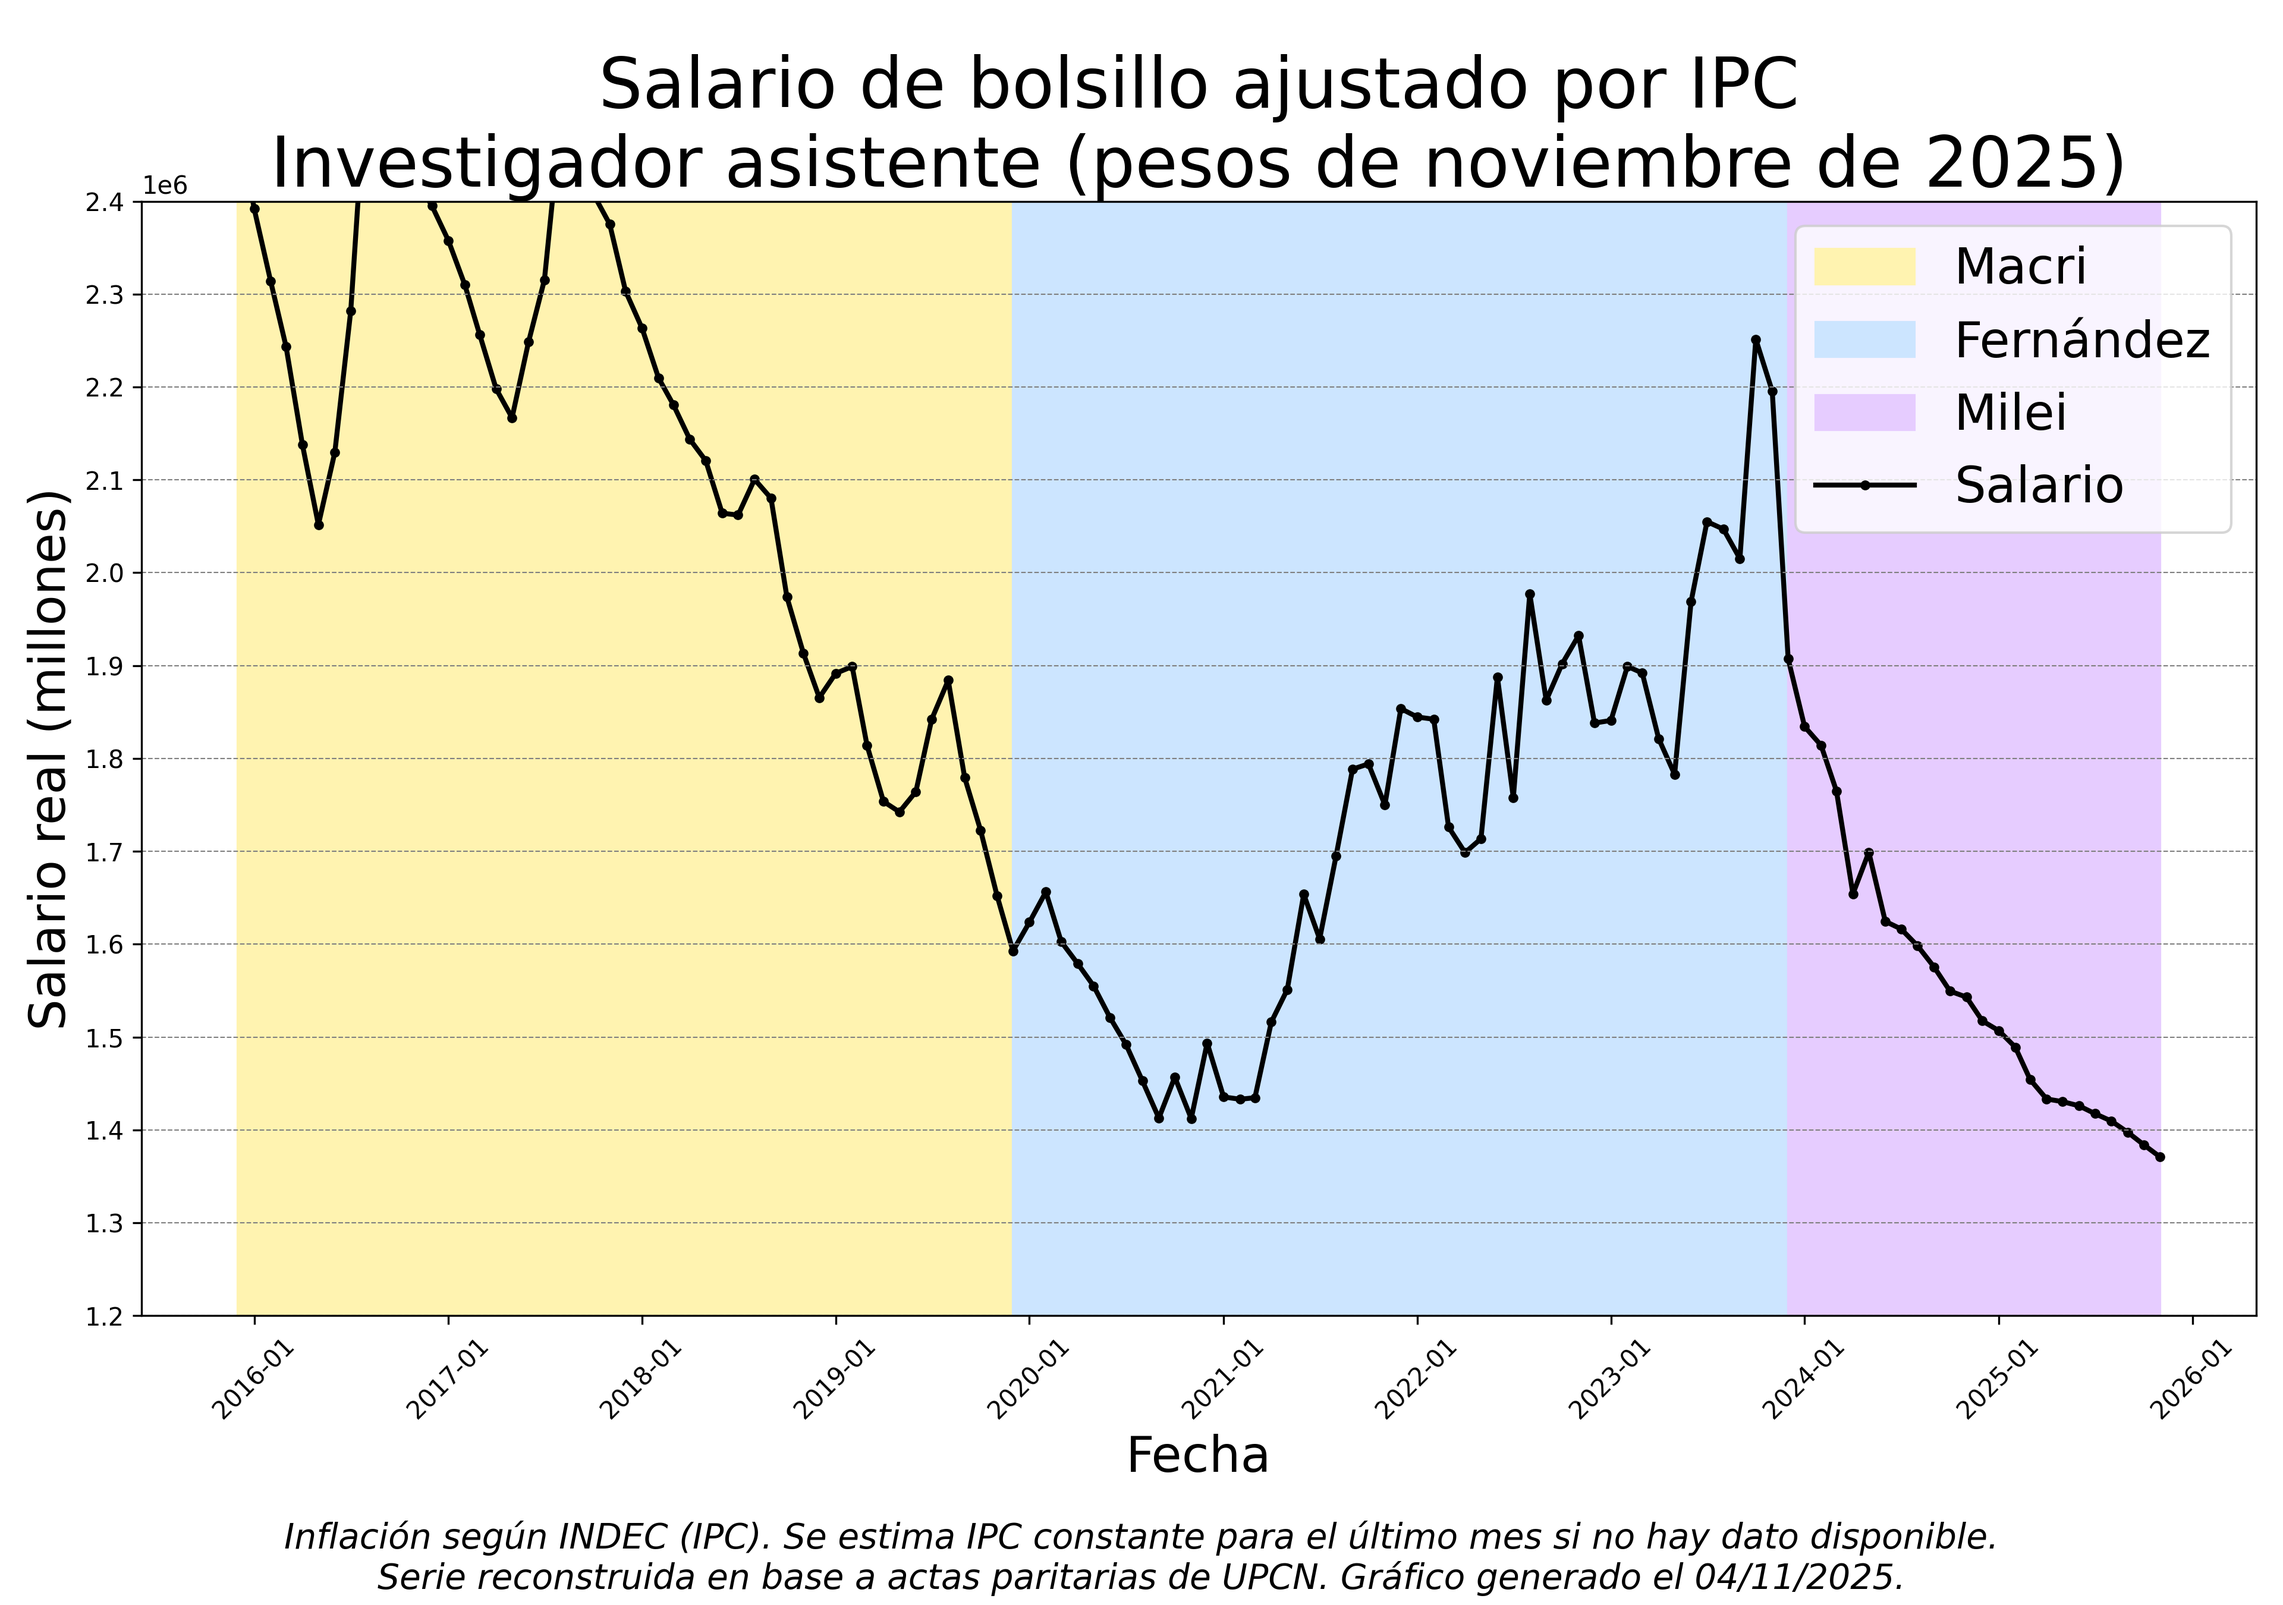
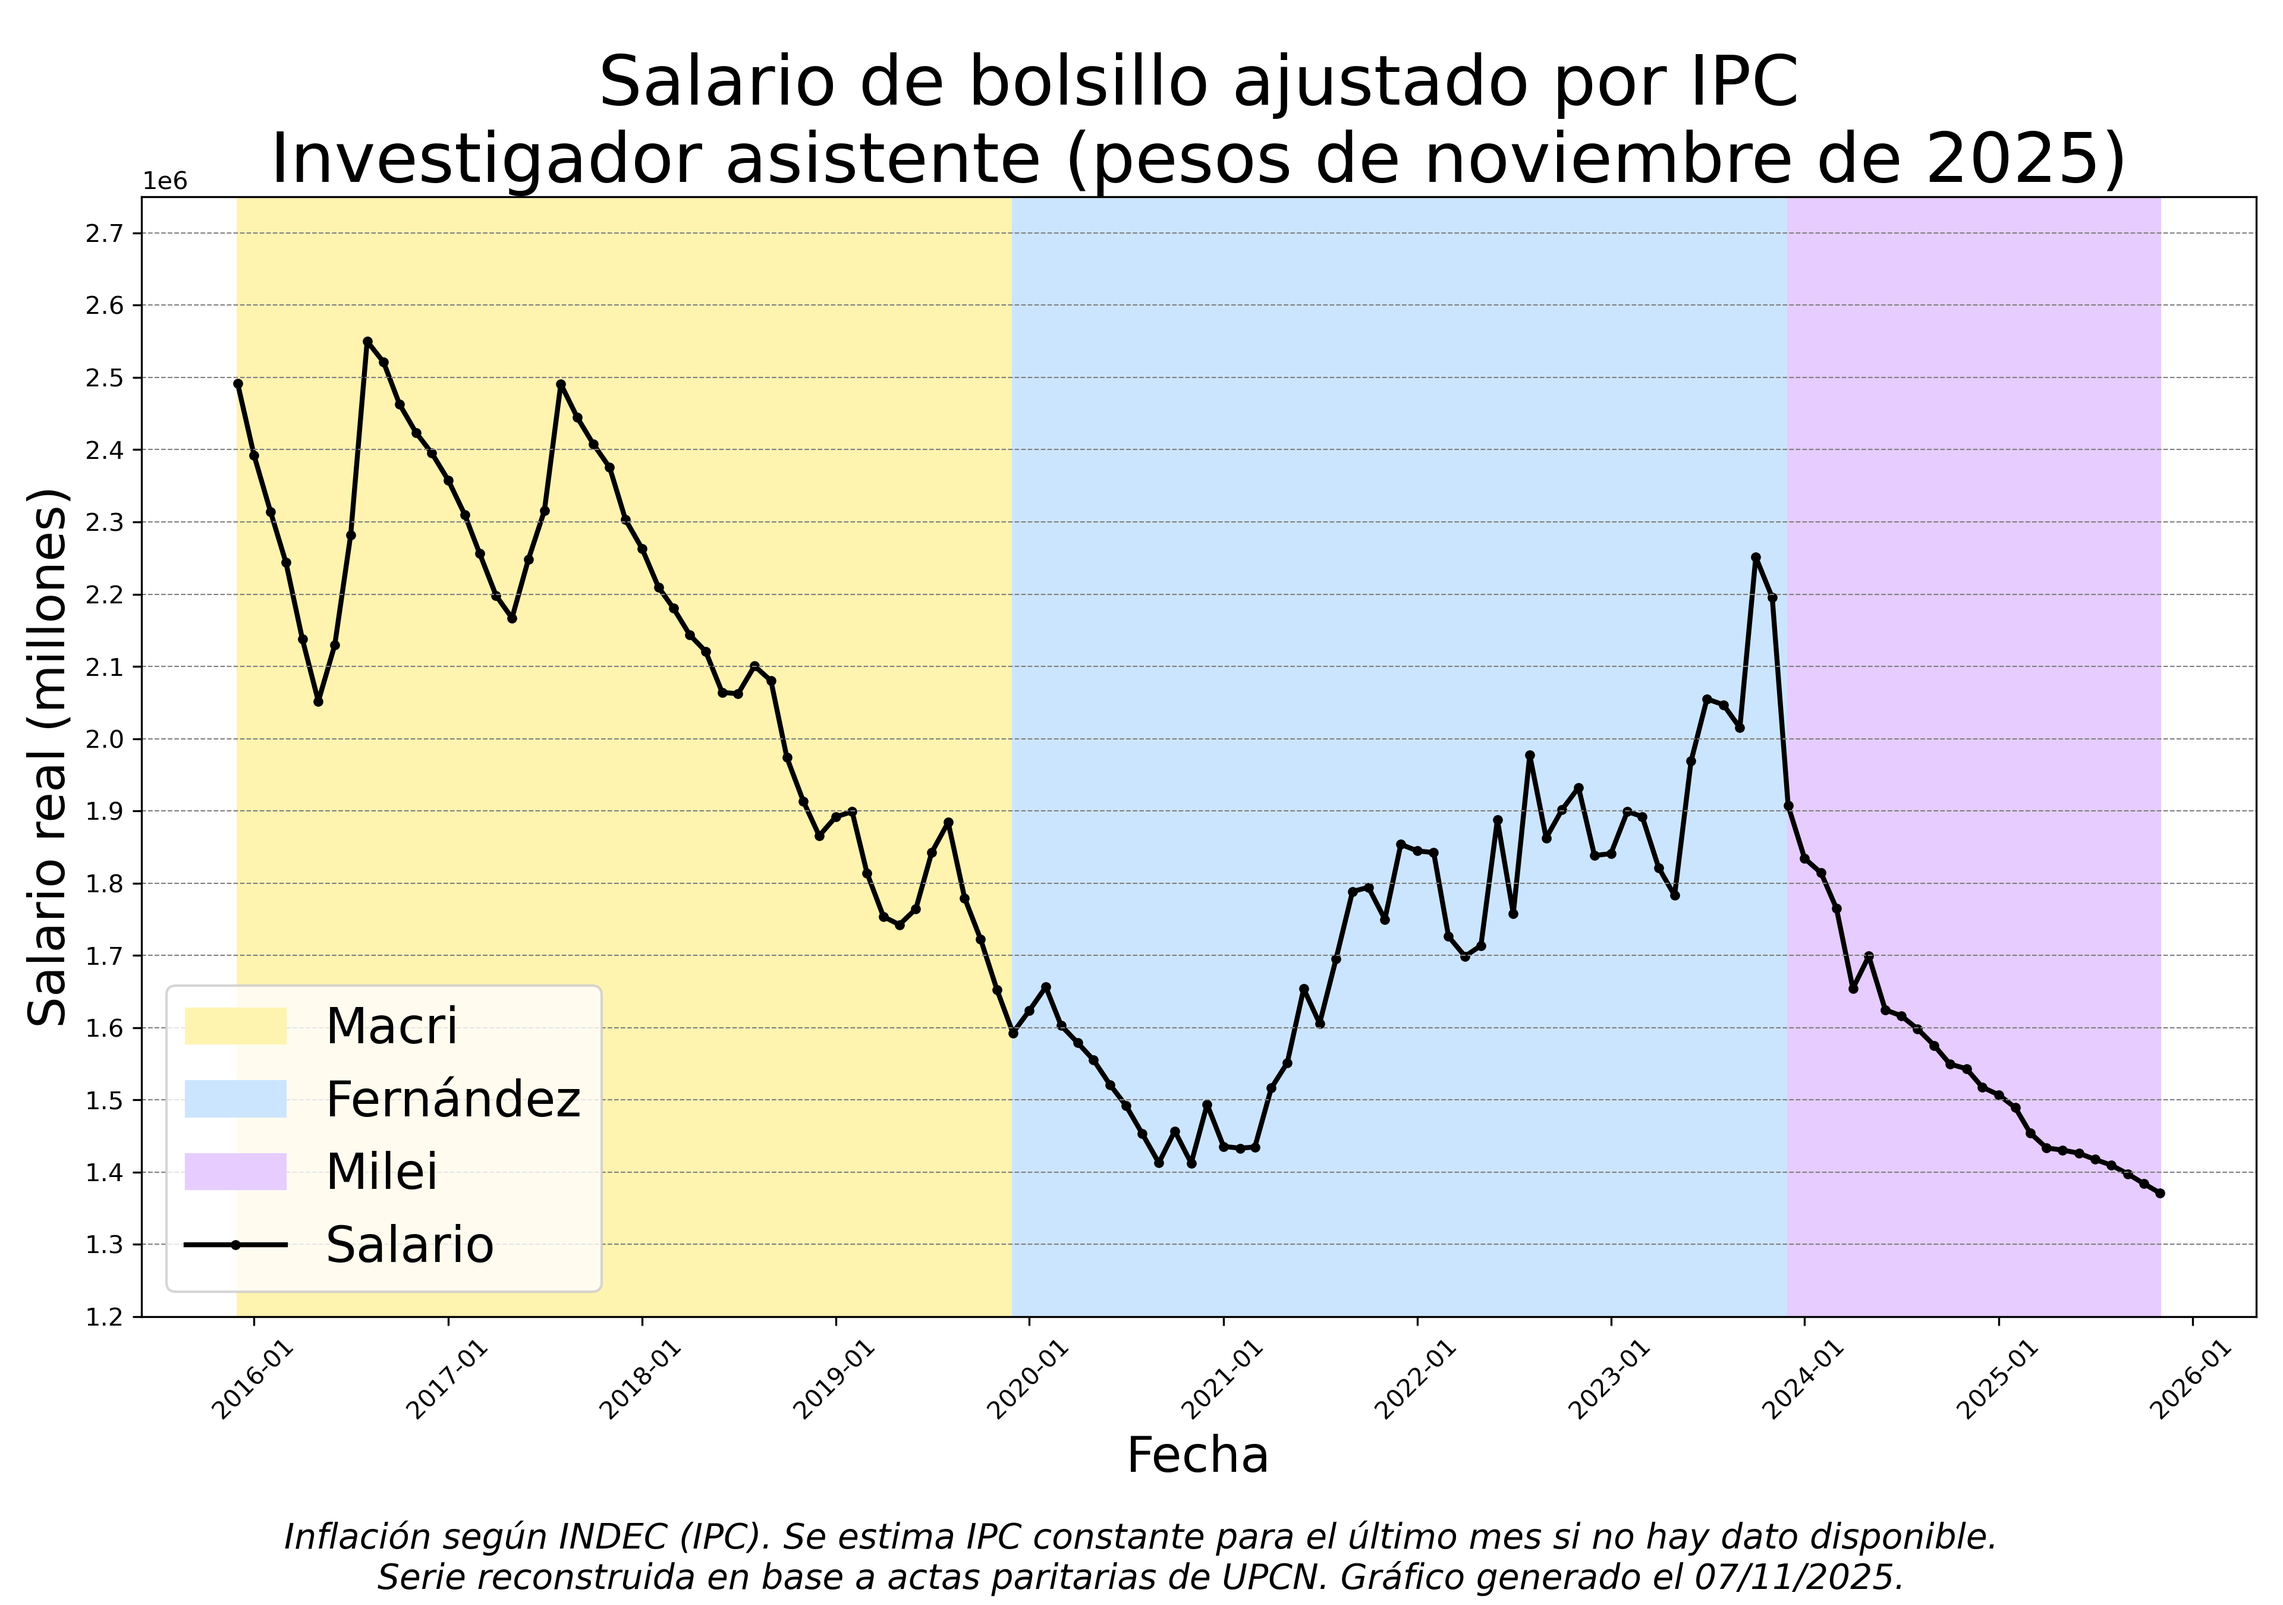
actualizo limites de los graficos

diff --git a/graf_cic.py b/graf_cic.py
@@ -33,8 +33,8 @@ ax.plot(df["fecha"], df["salario_real"], color="black", linewidth=2,
         marker='o', markersize=3, label="Salario")
 
 # Eje Y: límites y ticks
-ax.set_ylim(1200000, 2400000)
-yticks = np.arange(1200000, 2500000, 100000)
+ax.set_ylim(1200000, 2750000)
+yticks = np.arange(1200000, 2750000, 100000)
 ax.set_yticks(yticks)
 
 # Líneas horizontales en cada tick
